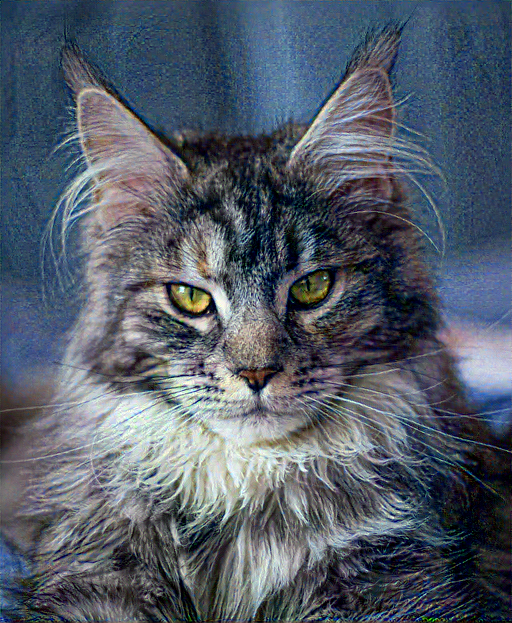
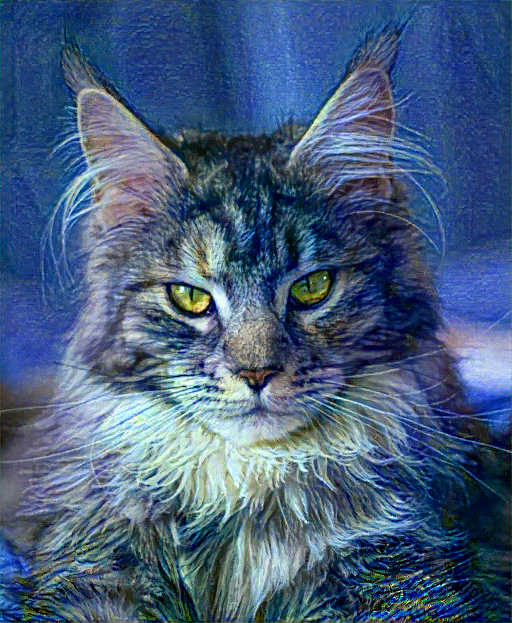
the third version

diff --git a/identify flowers/Cyber_painter.py b/identify flowers/Cyber_painter.py
@@ -76,9 +76,9 @@ if __name__=='__main__':
         'conv4_1':0.20,
         'conv5_1':0.20,
     }
-    style_weight=1e4
-    content_weight=1.0
-    tv_weight=1e-6
+    style_weight=5e4
+    content_weight=0.2
+    tv_weight=3e-6
 
     step=0
     def closure():
@@ -111,7 +111,7 @@ if __name__=='__main__':
                   )
         return loss
 #选择优化器
-    optimizer=torch.optim.LBFGS([gen_img_tensor],lr=1.0,max_iter=300)
+    optimizer=torch.optim.LBFGS([gen_img_tensor],lr=0.1,max_iter=500)
  #训练循环
     optimizer.step(closure)
  #输出最终图像
